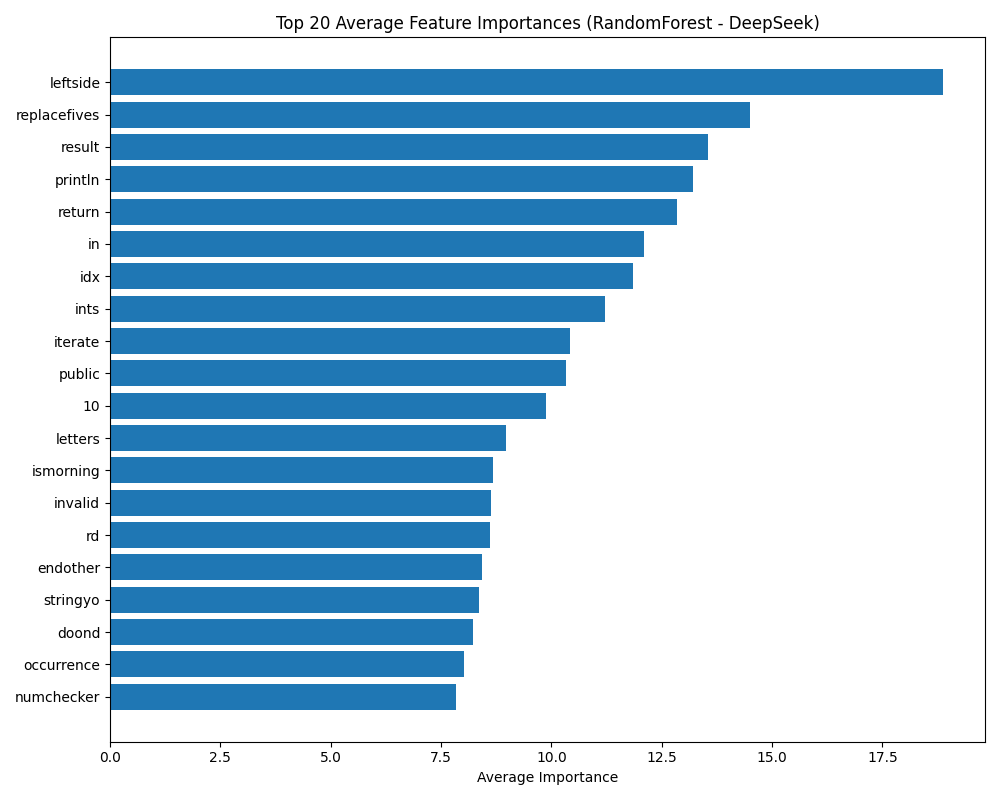
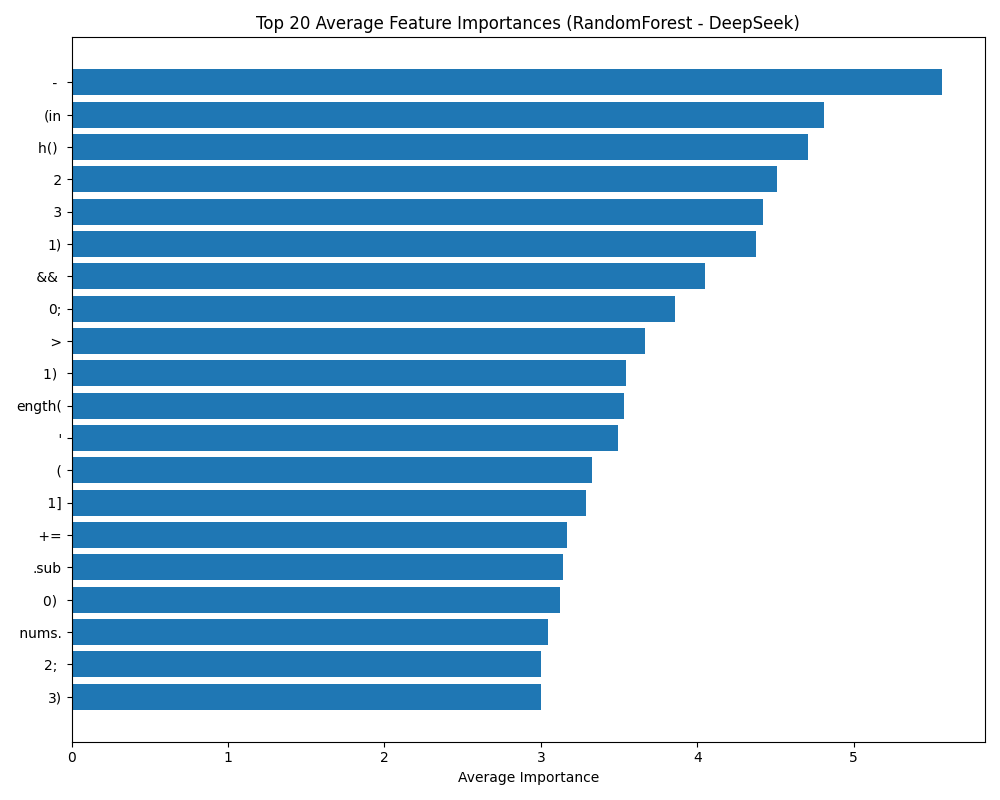
actually correct features

diff --git a/scripts/feature importance.py b/scripts/feature importance.py
@@ -10,9 +10,9 @@ import matplotlib.pyplot as plt
 num_models = 50  # Number of models to average over
 feature_importances_list = []
 
-# "RandomForest",  "LightGBM", "SVM","NN", "XGBoost", 
+# 
 LLMs = ["Qwen", "ChatGPT4o", "ChatGPT35", "DeepSeek"]
-MLs = ["AdaBoost"]
+MLs = ["AdaBoost", "RandomForest", "LightGBM", "XGBoost"]
 
 # Load each saved model and vectorizer
 for LLM in LLMs:
